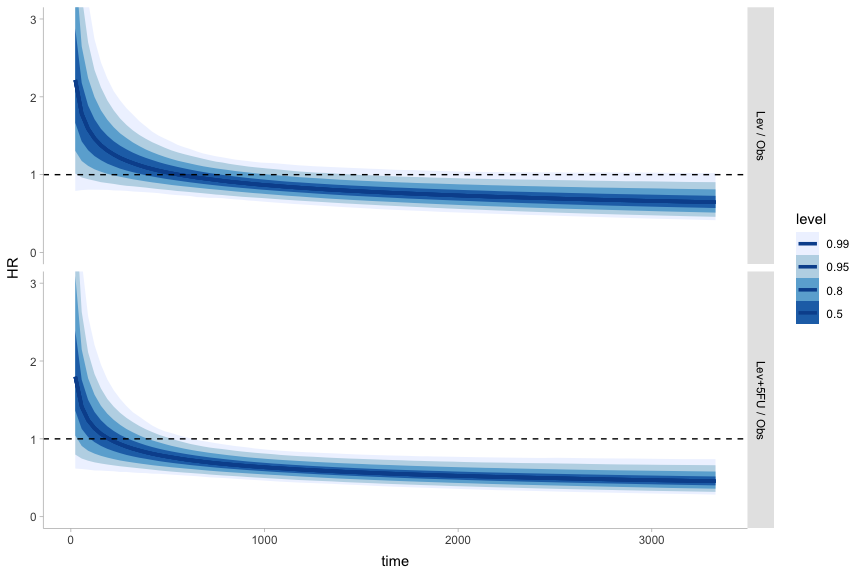
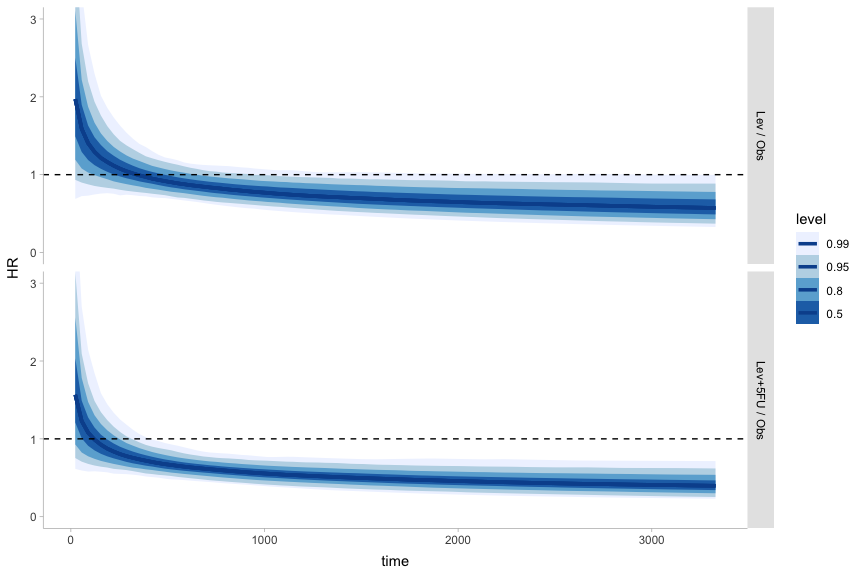
Andreas suggested correcitons

Changed region(s): [[0.0625, 0.0, 0.8438, 0.4062], [0.0625, 0.4688, 0.8438, 0.875]]

diff --git a/README.md b/README.md
@@ -66,7 +66,7 @@ covariates.
 colon <- colon |>
   filter(etype == 2) |>
   mutate(
-    censored = 1 - status, # brms uses 0 as non-censored, 1 as right censored
+    censored = 1 - status,# brms uses 0 as non-censored, 1 as right censored
     across(rx, as.factor),
     across(sex,  ~ factor(., labels = c("Female", "Male"))),
     across(c(obstruct, perfor, adhere), as.factor),
@@ -138,36 +138,42 @@ weibull_scale_only
 We then estimate the expected the survival probability and hazard for
 each treatment group at each time point, marginalising over the
 population in the style of the `comparisons` function from the
-`marginaleffects` package.
+`marginaleffects` package. (Thanks to Andrea Discacciati for correcting
+erronous averaging of scale/shape rather than the survival probabilities
+themselves as reported in<sup>2</sup>)
 
 ``` r
 proportional_posterior <- weibull_scale_only |>
   linpred_draws(
-    marginaleffects::datagridcf(rx = levels(colon$rx), model = weibull_scale_only),    # duplicate the dataset for each treatment level
+    marginaleffects::datagridcf(rx = levels(colon$rx), model = weibull_scale_only), # duplicate the dataset for each treatment level
     value = "mu",
     transform = TRUE,
-    dpar = "shape" # return shape in addition to mu
+    dpar = "shape", # return shape in addition to mu
+    ndraws = 1000 , 
+    seed = 123
   ) |>
-  mutate(scale = mu / gamma(1 + 1 / shape)) |> # reconvert mu and shape to scale
-  group_by(rx, .draw,) |> # group by .draw and rx to find the population averaged scale and shape by rx (though shape is here not varying by group)
-  summarise(shape = mean(shape), scale = mean(scale)) |>
-  ungroup() |>
+  mutate(scale = weibull_mu_to_scale(mu,shape)) |> # reconvert mu and shape to scale
+  ungroup() |> 
   expand(nesting(.draw, rx, scale, shape),
          time = modelr::seq_range(colon$time, n = 101)) |>
   mutate(S = weibull_survival(scale, shape, time),
          # population averaged survival probability for each time point and rx group
-         h = weibull_hazard(scale, shape, time)) # population averaged hazard for each time point and rx group
+         h = weibull_hazard(scale, shape, time)) |> # population averaged hazard for each time point and rx group
+  group_by(time, .draw, rx) |> # group by .draw, time and rx to find the population averaged survival conditional on rx and time 
+  summarise(S = mean(S), h = mean(h)) |> 
+  ungroup()
 ```
 
 Next we compute population averaged median survival times for each
 group.
 
 ``` r
-median_survival <- proportional_posterior |>
-    select(-c(time, S, h)) |>
-    distinct() |>
+median_survival_prop <- weibull_scale_only |>
+    linpred_draws(marginaleffects::datagridcf(rx = levels(colon$rx), model = weibull_scale_only),
+        value = "mu", transform = TRUE, dpar = "shape", ndraws = 1000, seed = 123) |>
+    mutate(scale = weibull_mu_to_scale(mu, shape)) |>
     group_by(.draw, rx) |>
-    summarise(median_survival = median_weibull(scale, shape)) |>
+    summarise(median_survival = mean(median_weibull(scale, shape))) |>
     group_by(rx) |>
     median_hdi(median_survival)
 ```
@@ -179,8 +185,8 @@ median survival for each treatment group
 proportional_posterior |>
     ggplot() + aes(x = time, y = S, group = rx) + stat_lineribbon(.width = c(0.99,
     0.95, 0.8, 0.5), color = "#08519C") + geom_segment(aes(x = median_survival, xend = median_survival,
-    y = 0, yend = 0.5), linetype = "dashed", data = median_survival) + geom_segment(aes(x = 0,
-    xend = median_survival, y = 0.5, yend = 0.5), linetype = "dashed", data = median_survival) +
+    y = 0, yend = 0.5), linetype = "dashed", data = median_survival_prop) + geom_segment(aes(x = 0,
+    xend = median_survival, y = 0.5, yend = 0.5), linetype = "dashed", data = median_survival_prop) +
     scale_y_continuous(labels = scales::percent_format()) + facet_grid(rows = vars(rx)) +
     scale_fill_brewer(name = "Confidence level") + theme_light() + theme(legend.position = "bottom") +
     labs(title = "Adjusted surival probabilities by treatment group\nProportional Weibull model",
@@ -207,7 +213,7 @@ proportional_posterior |>
 
 If we not only let $mu$ (and $scale$) vary, but also $shape$, we get a
 non-proportional hazard model, with a non-constant hazard
-ratio<sup>2</sup>.
+ratio<sup>3</sup>.
 
 ``` r
 formula_shape_scale <- bf(time | cens(censored) ~ rx + sex + age + nodes + mo(differ) +
@@ -306,16 +312,40 @@ probablitities
 
 ``` r
 nonprop_posterior <- weibull_shape_scale |>
-    linpred_draws(marginaleffects::datagridcf(rx = levels(colon$rx), model = weibull_shape_scale),
-        value = "mu", transform = TRUE, dpar = "shape") |>
-    mutate(scale = weibull_mu_to_scale(mu, shape)) |>
-    group_by(rx, .draw, ) |>
-    summarise(shape = mean(shape), scale = mean(scale)) |>
-    ungroup() |>
-    expand(nesting(.draw, rx, scale, shape), time = modelr::seq_range(colon$time,
-        n = 101)) |>
-    mutate(S = weibull_survival(scale, shape, time), h = weibull_hazard(scale, shape,
-        time))
+  linpred_draws(
+    marginaleffects::datagridcf(rx = levels(colon$rx), model = weibull_shape_scale),
+    value = "mu",
+    transform = TRUE,
+    dpar = "shape", # return shape in addition to mu
+    ndraws = 1000 , 
+    seed = 123
+  ) |>
+  mutate(scale = weibull_mu_to_scale(mu,shape)) |> # reconvert mu and shape to scale
+  ungroup() |> 
+  expand(nesting(.draw, rx, scale, shape),
+         time = modelr::seq_range(colon$time, n = 101)) |>
+  mutate(S = weibull_survival(scale, shape, time),         # population averaged survival probability for each time point and rx group
+         h = weibull_hazard(scale, shape, time)) |> # population averaged hazard for each time point and rx group
+  group_by(time, .draw, rx) |> # group by .draw, time and rx to find the population averaged survival conditional on rx and time 
+  summarise(S = mean(S), h = mean(h)) |> 
+  ungroup()
+```
+
+``` r
+  median_survival_nonprop <- weibull_shape_scale |>
+  linpred_draws(
+    marginaleffects::datagridcf(rx = levels(colon$rx), model = weibull_shape_scale),
+    value = "mu",
+    transform = TRUE,
+    dpar = "shape", # return shape in addition to mu
+    ndraws = 1000 , 
+    seed = 123
+  ) |> 
+  mutate(scale = weibull_mu_to_scale(mu,shape)) |>
+  group_by(.draw, rx) |>
+  summarise(median_survival = mean(median_weibull(scale, shape))) |>
+  group_by(rx) |>
+  median_hdi(median_survival)
 ```
 
 First let’s plot the population averaged survival curves and estimated
@@ -325,8 +355,8 @@ median survival estimates
 nonprop_posterior |>
     ggplot() + aes(x = time, y = S, group = rx) + stat_lineribbon(.width = c(0.99,
     0.95, 0.8, 0.5), color = "#08519C") + geom_segment(aes(x = median_survival, xend = median_survival,
-    y = 0, yend = 0.5), linetype = "dashed", data = median_survival) + geom_segment(aes(x = 0,
-    xend = median_survival, y = 0.5, yend = 0.5), linetype = "dashed", data = median_survival) +
+    y = 0, yend = 0.5), linetype = "dashed", data = median_survival_nonprop) + geom_segment(aes(x = 0,
+    xend = median_survival, y = 0.5, yend = 0.5), linetype = "dashed", data = median_survival_nonprop) +
     scale_y_continuous(labels = scales::percent_format()) + facet_grid(rows = vars(rx)) +
     scale_fill_brewer(name = "Confidence level") + theme_light() + theme(legend.position = "bottom") +
     labs(title = "Adjusted surival curves by treatment group", subtitle = "(Population averaged)",
@@ -362,24 +392,46 @@ nonprop_posterior |>
 
 ![](README_files/figure-gfm/rx%20hazards-1.png)<!-- -->
 
-Finally, let’s comapre the population averaged median survival by group
+Finally, let’s compare the population averaged median survival by group
 and model
 
 ``` r
-proportional_posterior |>
-    select(-c(time, S)) |>
-    distinct() |>
-    group_by(.draw, rx) |>
-    summarise(median_survival = median_weibull(scale, shape)) |>
-    mutate(Model = "PH Weibull") |>
-    bind_rows(nonprop_posterior |>
-        select(-c(time, S)) |>
-        distinct() |>
-        group_by(.draw, rx) |>
-        summarise(median_survival = median_weibull(scale, shape)) |>
-        mutate(Model = "Non-PH Weibull")) |>
-    ggplot() + aes(x = median_survival, y = rx, group = Model, fill = Model) + stat_gradientinterval(position = position_dodge(width = 1)) +
-    scale_x_continuous(name = "Median survival time") + labs(title = "Population averaged median survival by model and group")
+weibull_shape_scale |>
+  linpred_draws(
+    marginaleffects::datagridcf(rx = levels(colon$rx), model = weibull_scale_only),
+    value = "mu",
+    transform = TRUE,
+    dpar = "shape", # return shape in addition to mu
+    ndraws = 1000 , 
+    seed = 123
+  ) |> 
+  mutate(scale = weibull_mu_to_scale(mu,shape)) |>
+  group_by(.draw, rx) |>
+  summarise(median_survival = mean(median_weibull(scale, shape)))|>
+  mutate(Model = "PH Weibull") |>
+  bind_rows(
+    weibull_shape_scale |>
+  linpred_draws(
+    marginaleffects::datagridcf(rx = levels(colon$rx), model = weibull_shape_scale),
+    value = "mu",
+    transform = TRUE,
+    dpar = "shape", # return shape in addition to mu
+    ndraws = 1000 , 
+    seed = 123
+  ) |> 
+  mutate(scale = weibull_mu_to_scale(mu,shape)) |>
+  group_by(.draw, rx) |>
+  summarise(median_survival = mean(median_weibull(scale, shape))) |>
+      mutate(Model = "Non-PH Weibull")
+  ) |>
+  ggplot() +
+  aes(x = median_survival,
+      y = rx,
+      group = Model,
+      fill = Model) +
+  stat_gradientinterval(position = position_dodge(width = 1)) +
+  scale_x_continuous(name = "Median survival time") +
+  labs(title = "Population averaged median survival by model and group")
 ```
 
 ![](README_files/figure-gfm/compare%20marginal%20median%20survival%20estimates-1.png)<!-- -->
@@ -396,9 +448,19 @@ doi:[10.1111/bmsp.12195](https://doi.org/10.1111/bmsp.12195)</span>
 
 </div>
 
-<div id="ref-zuehlke2013" class="csl-entry">
+<div id="ref-brilleman2020" class="csl-entry">
 
 <span class="csl-left-margin">2. </span><span
+class="csl-right-inline">Brilleman SL, Elci EM, Novik JB, Wolfe R.
+Bayesian survival analysis using the rstanarm r package. Published
+online 2020.
+doi:[10.48550/ARXIV.2002.09633](https://doi.org/10.48550/ARXIV.2002.09633)</span>
+
+</div>
+
+<div id="ref-zuehlke2013" class="csl-entry">
+
+<span class="csl-left-margin">3. </span><span
 class="csl-right-inline">Zuehlke TW. Estimation and testing of
 nonproportional Weibull hazard models. *Applied Economics*.
 2013;45(15):2059-2066.
